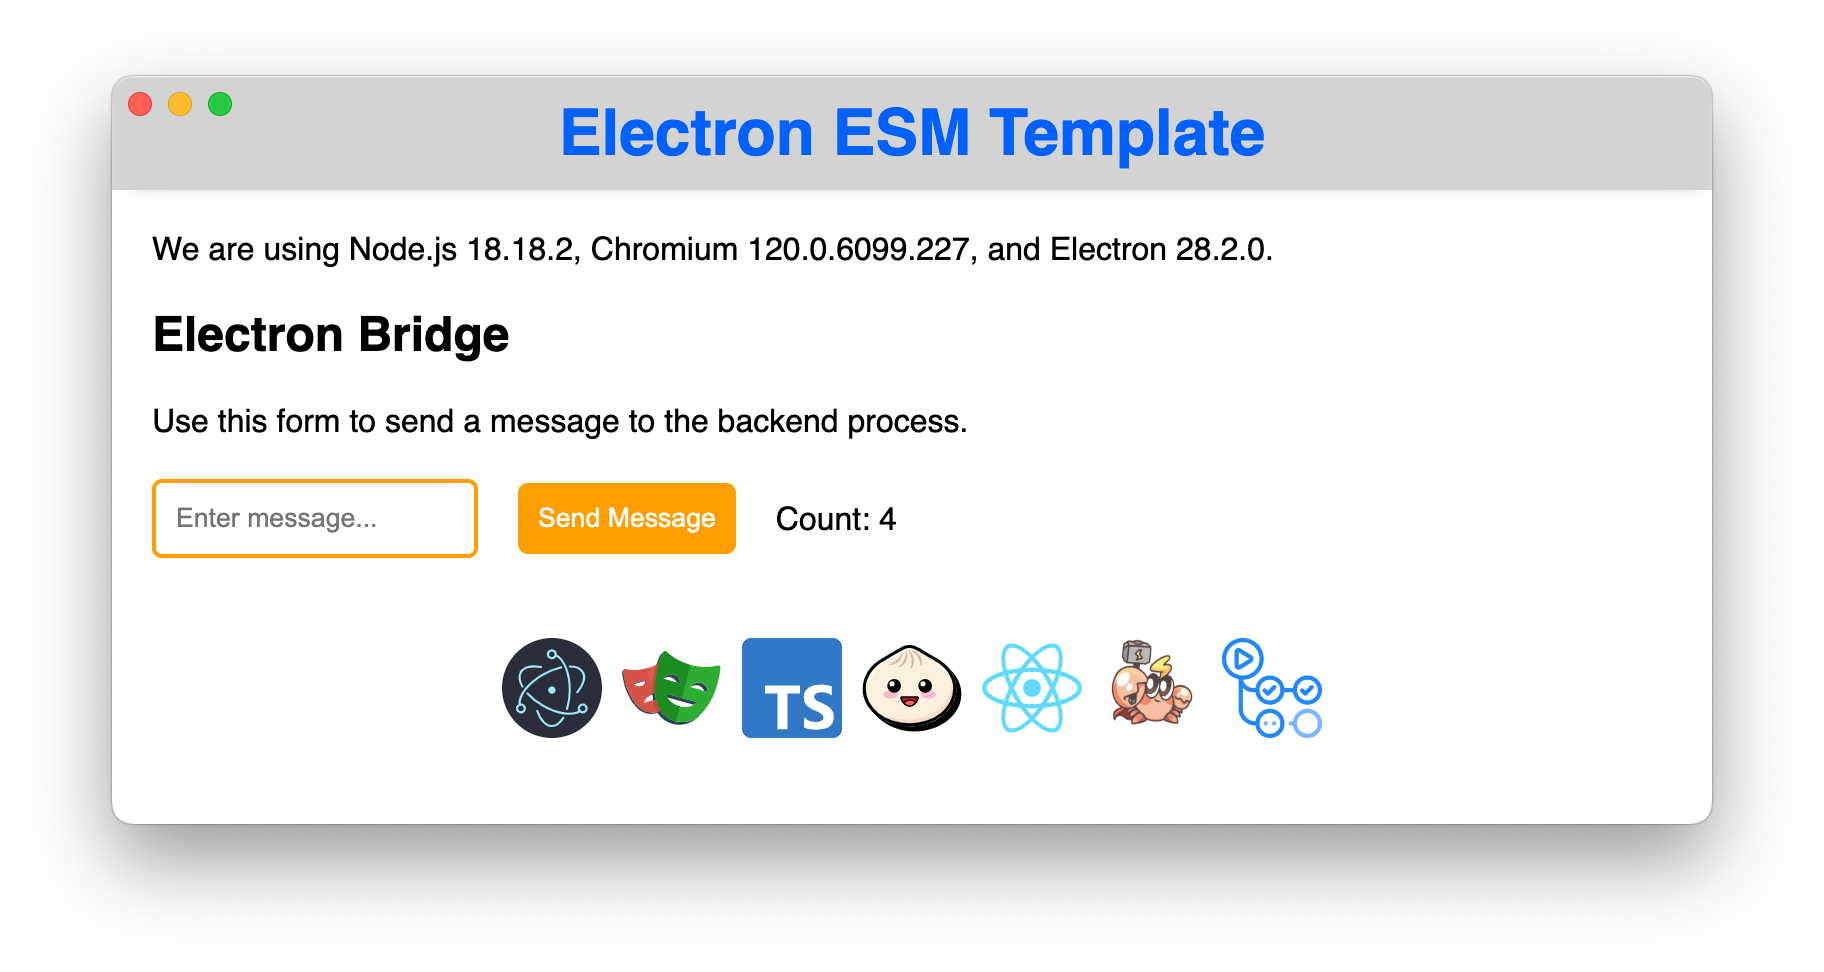
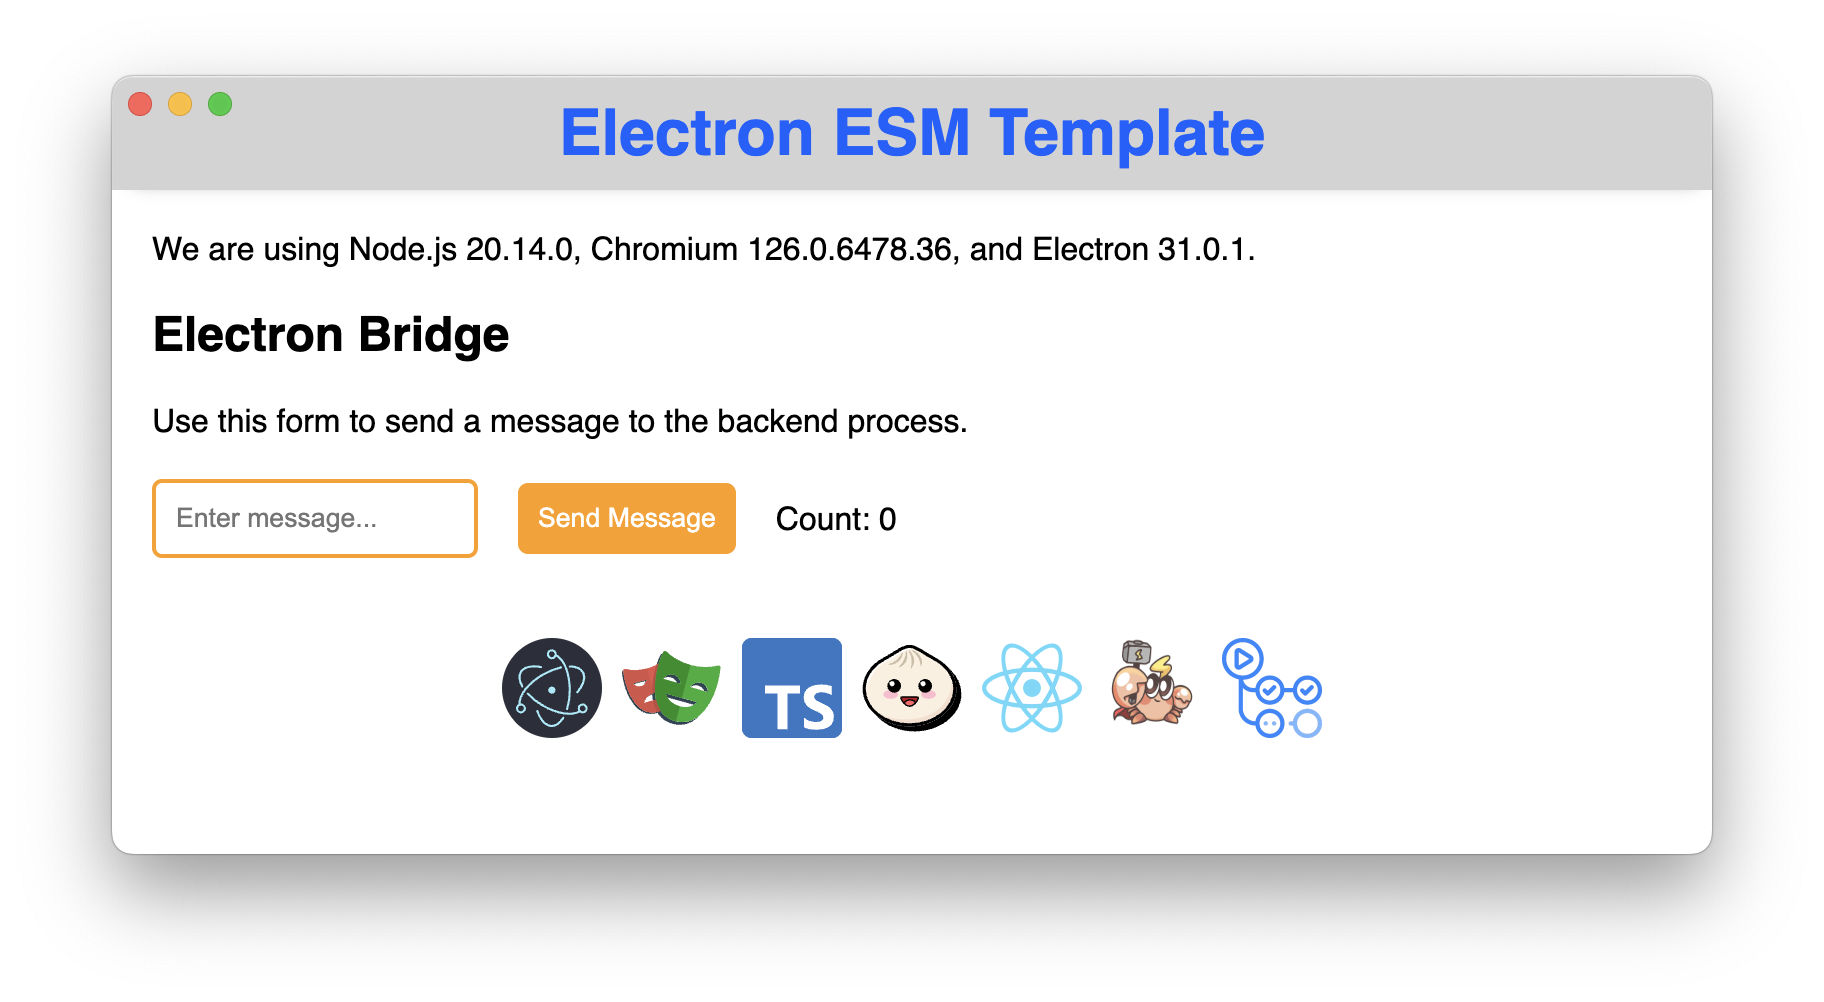
Update dependencies and small improvements

diff --git a/asset/electron.tsx b/asset/electron.tsx
@@ -1,9 +1,9 @@
 export const Electron = ({ width = 256, height = 256 }) => (
   <svg width={width} height={height} viewBox="0 0 256 256" xmlns="http://www.w3.org/2000/svg">
     <title>Electron</title>
-    <g fill="none" fill-rule="evenodd">
+    <g fill="none" fillRule="evenodd">
       <circle fill="#2B2E3A" cx="128" cy="128" r="128" />
-      <g fill="#9FEAF9" fill-rule="nonzero">
+      <g fill="#9FEAF9" fillRule="nonzero">
         <path d="M100.502 71.69c-26.005-4.736-46.567.221-54.762 14.415-6.115 10.592-4.367 24.635 4.24 39.646a2.667 2.667 0 1 0 4.626-2.653c-7.752-13.522-9.261-25.641-4.247-34.326 6.808-11.791 25.148-16.213 49.187-11.835a2.667 2.667 0 0 0 .956-5.247zm-36.999 72.307c10.515 11.555 24.176 22.394 39.756 31.388 37.723 21.78 77.883 27.601 97.675 14.106a2.667 2.667 0 1 0-3.005-4.406c-17.714 12.078-55.862 6.548-92.003-14.318-15.114-8.726-28.343-19.222-38.478-30.36a2.667 2.667 0 1 0-3.945 3.59z" />
         <path d="M194.62 140.753c17.028-20.116 22.973-40.348 14.795-54.512-6.017-10.423-18.738-15.926-35.645-16.146a2.667 2.667 0 0 0-.069 5.333c15.205.198 26.165 4.939 31.096 13.48 6.792 11.765 1.49 29.807-14.248 48.399a2.667 2.667 0 1 0 4.071 3.446zm-43.761-68.175c-15.396 3.299-31.784 9.749-47.522 18.835-38.942 22.483-64.345 55.636-60.817 79.675a2.667 2.667 0 1 0 5.277-.775c-3.133-21.344 20.947-52.769 58.207-74.281 15.267-8.815 31.135-15.06 45.972-18.239a2.667 2.667 0 1 0-1.117-5.215z" />
         <path d="M87.77 187.753c8.904 24.86 23.469 40.167 39.847 40.167 11.945 0 22.996-8.143 31.614-22.478a2.667 2.667 0 1 0-4.571-2.748c-7.745 12.883-17.258 19.892-27.043 19.892-13.605 0-26.596-13.652-34.825-36.63a2.667 2.667 0 1 0-5.021 1.797zm81.322-4.863c4.61-14.728 7.085-31.718 7.085-49.423 0-44.179-15.463-82.263-37.487-92.042a2.667 2.667 0 0 0-2.164 4.874c19.643 8.723 34.317 44.866 34.317 87.168 0 17.177-2.397 33.63-6.84 47.83a2.667 2.667 0 1 0 5.09 1.593zm50.224-2.612c0-7.049-5.714-12.763-12.763-12.763-7.049 0-12.763 5.714-12.763 12.763 0 7.049 5.714 12.763 12.763 12.763 7.049 0 12.763-5.714 12.763-12.763zm-5.333 0a7.43 7.43 0 1 1-14.86 0 7.43 7.43 0 0 1 14.86 0zM48.497 193.041c7.05 0 12.764-5.714 12.764-12.763 0-7.049-5.715-12.763-12.764-12.763-7.048 0-12.763 5.714-12.763 12.763 0 7.049 5.715 12.763 12.763 12.763zm0-5.333a7.43 7.43 0 1 1 0-14.86 7.43 7.43 0 0 1 0 14.86z" />

diff --git a/asset/typescript.tsx b/asset/typescript.tsx
@@ -4,10 +4,10 @@ export const TypeScript = ({ width = 512, height = 512 }) => (
     <rect fill="#3178c6" height="512" rx="50" width="512" />
     <rect fill="#3178c6" height="512" rx="50" width="512" />
     <path
-      clip-rule="evenodd"
+      clipRule="evenodd"
       d="m316.939 407.424v50.061c8.138 4.172 17.763 7.3 28.875 9.386s22.823 3.129 35.135 3.129c11.999 0 23.397-1.147 34.196-3.442 10.799-2.294 20.268-6.075 28.406-11.342 8.138-5.266 14.581-12.15 19.328-20.65s7.121-19.007 7.121-31.522c0-9.074-1.356-17.026-4.069-23.857s-6.625-12.906-11.738-18.225c-5.112-5.319-11.242-10.091-18.389-14.315s-15.207-8.213-24.18-11.967c-6.573-2.712-12.468-5.345-17.685-7.9-5.217-2.556-9.651-5.163-13.303-7.822-3.652-2.66-6.469-5.476-8.451-8.448-1.982-2.973-2.974-6.336-2.974-10.091 0-3.441.887-6.544 2.661-9.308s4.278-5.136 7.512-7.118c3.235-1.981 7.199-3.52 11.894-4.615 4.696-1.095 9.912-1.642 15.651-1.642 4.173 0 8.581.313 13.224.938 4.643.626 9.312 1.591 14.008 2.894 4.695 1.304 9.259 2.947 13.694 4.928 4.434 1.982 8.529 4.276 12.285 6.884v-46.776c-7.616-2.92-15.937-5.084-24.962-6.492s-19.381-2.112-31.066-2.112c-11.895 0-23.163 1.278-33.805 3.833s-20.006 6.544-28.093 11.967c-8.086 5.424-14.476 12.333-19.171 20.729-4.695 8.395-7.043 18.433-7.043 30.114 0 14.914 4.304 27.638 12.912 38.172 8.607 10.533 21.675 19.45 39.204 26.751 6.886 2.816 13.303 5.579 19.25 8.291s11.086 5.528 15.415 8.448c4.33 2.92 7.747 6.101 10.252 9.543 2.504 3.441 3.756 7.352 3.756 11.733 0 3.233-.783 6.231-2.348 8.995s-3.939 5.162-7.121 7.196-7.147 3.624-11.894 4.771c-4.748 1.148-10.303 1.721-16.668 1.721-10.851 0-21.597-1.903-32.24-5.71-10.642-3.806-20.502-9.516-29.579-17.13zm-84.159-123.342h64.22v-41.082h-179v41.082h63.906v182.918h50.874z"
       fill="#fff"
-      fill-rule="evenodd"
+      fillRule="evenodd"
     />
   </svg>
 )

diff --git a/asset/react.tsx b/asset/react.tsx
@@ -2,7 +2,7 @@ export const React = ({ width = 50, height = 50 }) => (
   <svg width={width} height={height} xmlns="http://www.w3.org/2000/svg" viewBox="-11.5 -10.23174 23 20.46348">
     <title>React Logo</title>
     <circle cx="0" cy="0" r="2.05" fill="#61dafb" />
-    <g stroke="#61dafb" stroke-width="1" fill="none">
+    <g stroke="#61dafb" strokeWidth="1" fill="none">
       <ellipse rx="11" ry="4.2" />
       <ellipse rx="11" ry="4.2" transform="rotate(60)" />
       <ellipse rx="11" ry="4.2" transform="rotate(120)" />

diff --git a/index.tsx b/index.tsx
@@ -3,6 +3,18 @@ import { Bridge } from './component/Bridge'
 import { Header } from './component/Header'
 import { Stack } from './component/Stack'
 
+if (typeof window.electron === 'undefined') {
+  // @ts-ignore Polyfill to run UI in the browser.
+  window.electron = {
+    versions: {
+      chrome: 'web',
+      node: 'web',
+      electron: 'web',
+    },
+    register: () => false,
+  }
+}
+
 document.body.style.margin = '0'
 
 const { chrome, node, electron } = window.electron.versions

diff --git a/README.md b/README.md
@@ -28,6 +28,7 @@ bun start # Open the electron application.
 bun run test # Run Playwright test suite.
 bun web # Open the application in the browser.
 bun package # Package the application into an executable.
+bun types # Check TypeScript types.
 ```
 
 ## Important Files and Folders
